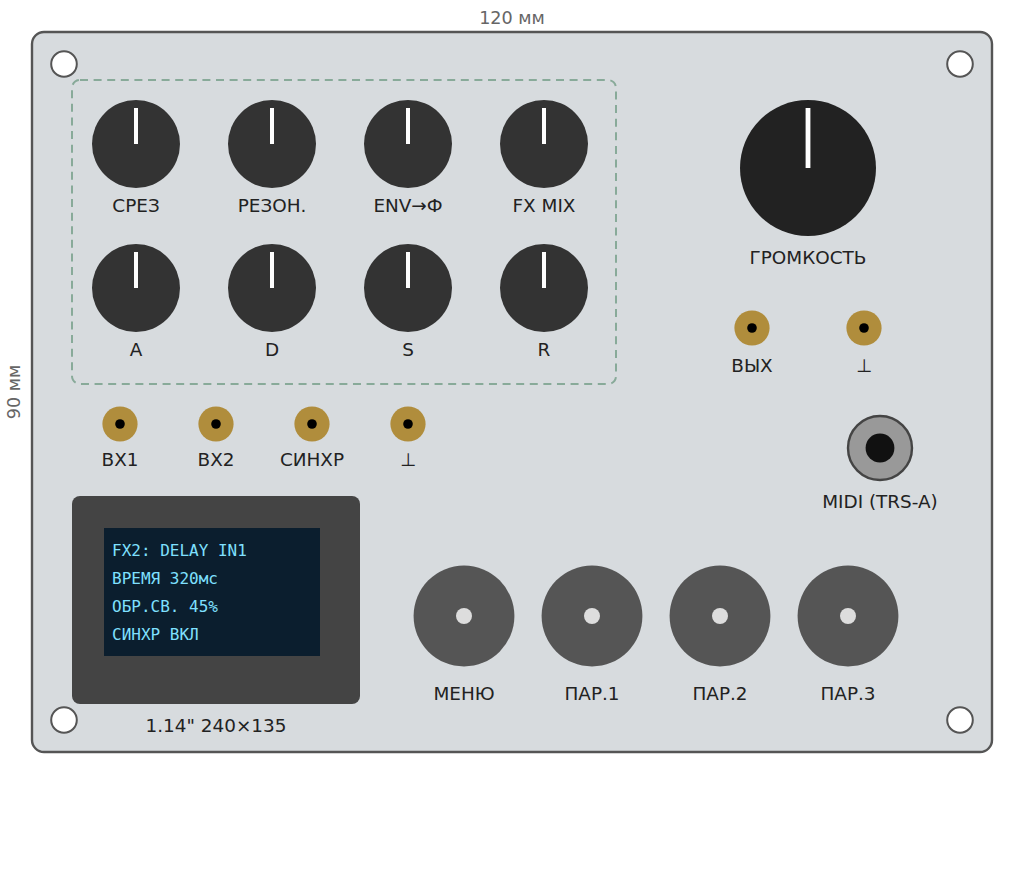
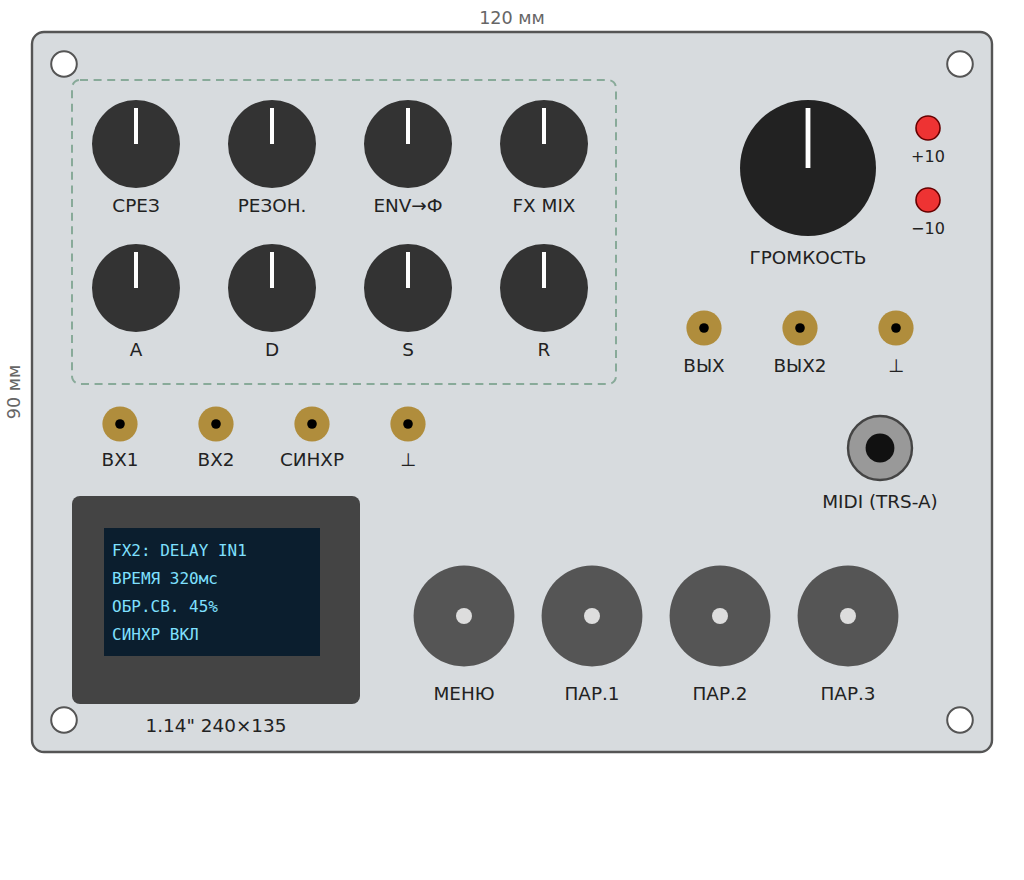
Add TRS draft and implementation plan for FPGA synth module
Panel sketch: add output clip LEDs and second (modulation) output.

Claude-Session: https://claude.ai/code/session_01JcNV2ZCXWxtNzRVWffkrjk

Changed region(s): [[0.6562, 0.3375, 0.9062, 0.4295], [0.875, 0.1227, 0.9375, 0.1841], [0.875, 0.2148, 0.9375, 0.2761]]

diff --git a/.plans/fpga-synth/trs.md b/.plans/fpga-synth/trs.md
@@ -1,0 +1,272 @@
+# ТЗ: FPGA-синтезатор / процессор эффектов — сменный модуль АВК-6
+
+Статус: **черновик v0.1**. Приоритеты: **P0** — обязательно в первой версии, **P1** — во второй, **P2** — потом.
+Открытые вопросы собраны в разделе 10 (`O-xx`).
+
+---
+
+## 1. Назначение
+
+Сменный модуль АВК-6, развитие проекта MIDI2AUX:
+
+1. **Полифонический виртуально-аналоговый синтезатор** с MIDI-входом, реакцией на силу нажатия и огибающими.
+2. **Процессор сигналов АВК**: два DC-входа, эффекты на кольцевом буфере (задержка, хорус, реверберация) и математические операции над сигналами.
+3. **Связь синтезатора с АВК в обе стороны**: сигналы АВК модулируют синтезатор, а модуляционные сигналы синтезатора выводятся в АВК.
+
+## 2. Термины
+
+| Термин | Значение |
+|---|---|
+| Машинная единица (МЕ) | ±10 В на разъёмах АВК. В цифре соответствует ±1.0 |
+| Голос | Канал синтеза одной ноты: 2 генератора + шум → фильтр → усилитель с огибающей |
+| ADSR | Генератор огибающей: Attack (время нарастания), Decay (время спада), Sustain (уровень удержания), Release (время затухания после отпускания) |
+| LFO | Низкочастотный генератор модуляции, 0.01–50 Гц |
+| Velocity | Сила нажатия клавиши, 0–127, приходит в Note On |
+| Шина сигналов | Набор сигналов модуля (источники, выходы слотов), обновляется каждый отсчёт |
+| Слот | Аппаратный блок обработки (эффект / математика) со стандартным интерфейсом, подключённый к шине |
+
+## 3. Внешние интерфейсы
+
+### 3.1 Питание (от АВК)
+
+| Шина | Потребители | Примечание |
+|---|---|---|
+| +5 В | Tang Nano (вход 5 В через диод Шоттки — развязка с USB), MCP3208, логика | Ток ограничен, величина неизвестна (O-11); бюджет ≤ 400 мА |
+| +15 / −15 В | ОУ входных/выходных каскадов, компараторы светодиодов | |
+| 3.3 В | АЦП входов, ЦАП, дисплей | Отдельный LDO от +5 В (не от Tang Nano) |
+
+Земля АВК одна: одна земля на плате, развязка керамикой и электролитами у каждого узла, аналоговая часть топологически отделена от цифровой.
+
+### 3.2 Сигналы
+
+| Разъём (2РМТ, панель) | Направление | Диапазон | Связь | Pri |
+|---|---|---|---|---|
+| ВХ1, ВХ2 | вход | ±10 В (защита до ±15 В) | DC, Rвх ≥ 100 кОм | P0 |
+| СИНХР | вход, цифровой | ТТЛ? (O-01); вход терпит ±15 В, порог ~+1.5 В, триггер Шмитта | DC | P0 |
+| ВЫХ | выход | ±10 В при Volume = max | DC, после аналогового Volume | P0 |
+| ВЫХ2 | выход модуляции в АВК | ±10 В, без регулятора громкости | DC | P1 (O-03) |
+| ⊥ ×2 | земля | | | P0 |
+| MIDI | вход, TRS 3.5 мм Type A | токовая петля, оптрон 6N137 / H11L1 | | P0 |
+
+### 3.3 Органы управления и индикация (панель 120×90 мм, см. `panel-sketch.svg`)
+
+| Элемент | Кол-во | Подключение | Функция |
+|---|---|---|---|
+| Потенциометры 9 мм | 8 | MCP3208 (SPI) | Фиксированные: СРЕЗ, РЕЗОН., ENV→Ф, FX MIX, A, D, S, R (O-06) |
+| Потенциометр ГРОМКОСТЬ | 1 | аналогово, в цепи выходного ОУ | Крайнее положение = ×1 (калибровано к МЕ) |
+| Энкодеры EC11 с кнопкой | 4 | GPIO ПЛИС | МЕНЮ, ПАР.1–3 (параметры, подписанные на экране) |
+| Дисплей 1.14" ST7789 240×135 | 1 | SPI ПЛИС | Меню, значения, индикация |
+| Светодиоды перегрузки ВЫХ | 2 | аналоговые компараторы на выходе, порог ≈ ±9.5 В | +10 / −10, как на модулях АВК |
+
+### 3.4 Конструктив
+
+- Алюминиевая панель 120×90 мм, плата под ней на стойках по углам, модуль вставляется в АВК сверху.
+- Tang Nano 20K устанавливается на несущую плату на штыревых разъёмах (можно снять).
+- Прошивка и отладка — через ремонтную проставку: модуль поднимается над корпусом, открывается доступ к USB-C Tang Nano.
+- SD-карта — в слоте Tang Nano (доступ при вынутом модуле).
+
+## 4. Функциональные требования — синтезатор
+
+### 4.1 MIDI
+
+| Требование | Pri |
+|---|---|
+| Приём 31250 бод 8N1, running status, игнорирование System Realtime внутри сообщений | P0 |
+| Note On / Note Off (Note On с vel=0 = Note Off), velocity | P0 |
+| Omni: реакция на все каналы (выбор канала не нужен) | P0 |
+| Pitch Bend (диапазон ±2 полутона, настраивается) | P0 |
+| Mod Wheel (CC1) → глубина вибрато LFO1 | P0 |
+| All Notes Off (CC123), 0xFC Stop → гашение всех голосов | P0 |
+| Sustain (CC64) | P1 |
+| Channel Aftertouch → источник модуляции | P2 |
+
+### 4.2 Голоса
+
+| Требование | Pri |
+|---|---|
+| Число голосов — параметр `NUM_VOICES` при синтезе; цель — 32 на 20K, 16+ на 9K | P0 |
+| Распределение: свободный голос; если нет — кража (сначала голос в Release с наименьшей амплитудой, затем самый старый) | P0 |
+| Повторное нажатие той же ноты перезапускает тот же голос | P0 |
+| 2 генератора на голос: пила, меандр/PWM, треугольник, синус; расстройка ГЕН2 (±1 октава, ±100 центов), смесь ГЕН1/ГЕН2/шум | P0 |
+| Подавление алиасинга (PolyBLEP) | P1 |
+| Жёсткая синхронизация генераторов от входа СИНХР («рычащий тембр») | P1 |
+| Резонансный фильтр SVF: ФНЧ/ПФ/ФВЧ, частота среза 20 Гц–16 кГц, резонанс до самовозбуждения | P0 |
+| ADSR1 → усилитель, ADSR2 → частота среза (глубина ENV→Ф, может быть отрицательной) | P0 |
+| Экспоненциальные участки огибающих; времена A/D/R 1 мс–10 с | P0 |
+| Velocity → громкость и частота среза (глубины в меню) | P0 |
+| 2 глобальных LFO: синус, треугольник, пила, меандр, случайный; частота или такт от СИНХР | P0 |
+| Портаменто, унисон | P2 |
+
+### 4.3 Модуляция (связь с АВК) — ключевая функция
+
+**Матрица модуляции**: 8 маршрутов «источник → приёмник × глубина (±)», глобальные (действуют на все голоса).
+
+| Источники | Приёмники |
+|---|---|
+| ВХ1, ВХ2 (DC, с частотой отсчётов — годится и для FM/AM звуковой частоты) | Высота тона всех голосов (FM / экспоненциально по октавам) |
+| LFO1, LFO2 | Частота среза, резонанс |
+| Mod Wheel, Pitch Bend | Громкость (AM / кольцевая модуляция) |
+| Выходы слотов | Ширина импульса (PWM), смесь генераторов |
+| СИНХР (±1) | Частота LFO, параметры слотов (время задержки, обратная связь…) |
+
+Pri: ВХ1/ВХ2 → высота, срез, громкость — **P0**; остальное — P1.
+
+**Модуляция АВК от синтезатора** — на ВЫХ2 (или на ВЫХ, если ВЫХ2 не будет, O-03) выводится любой сигнал шины:
+
+| Сигнал | Описание | Pri |
+|---|---|---|
+| LFO1/LFO2 | ±10 В | P0 |
+| Огибающая последнего нажатого голоса | 0…+10 В | P0 |
+| Gate | 0 / +10 В, пока нажата хотя бы одна клавиша | P0 |
+| Pitch CV последней ноты | 1 В/окт или в МЕ (настраивается) | P1 |
+| Velocity последней ноты | 0…+10 В | P1 |
+| Огибающая сигнала (envelope follower) синта или ВХ | 0…+10 В | P1 |
+
+### 4.4 Вход СИНХР
+
+| Режим | Pri |
+|---|---|
+| Такт для эффектов и LFO: время задержки / частота LFO = период СИНХР × множитель (4, 2, 1, 1/2, 1/4, 1/3…) | P0 |
+| Триггер нот: фронт запускает огибающие (выбранная нота или последняя нажатая); длительность gate — параметр | P0 |
+| Измерение периода (служебно: показать частоту на экране; основа для тактовых режимов) | P0 |
+| Жёсткая синхронизация генераторов | P1 |
+| Слежение частоты (голос звучит на частоте генератора АВК × интервал) | P2 |
+| Выборка-хранение по СИНХР | не нужно (сигналы АВК синхронны с СИНХР) |
+
+## 5. Функциональные требования — обработка сигналов
+
+### 5.1 Шина сигналов и слоты
+
+- Шина: `NUM_BUS` сигналов по 18 бит, обновляется каждый отсчёт.
+  Источники: S0 синт (сумма голосов), S1 ВХ1, S2 ВХ2, S3 LFO1, S4 LFO2, S5 СИНХР, S6 огибающая, S7 gate, S8… выходы слотов.
+- Каждый слот выбирает входы `SEL_A`, `SEL_B` из любых сигналов шины. Слоты вычисляются по порядку; чтение выхода более позднего слота даёт значение предыдущего отсчёта (z⁻¹) → допустимы обратные связи.
+- Выходной микшер: `ВЫХ = softclip(Σ gain_i · S_i)`, `ВЫХ2 = S[sel_out2] · gain`.
+- **Расширяемость**: новый эффект = RTL-модуль со стандартным интерфейсом слота + строка в списке слотов верхнего уровня + дескриптор в прошивке. Остальной код не меняется. CPU при старте перечисляет слоты по `TYPE_ID`, меню строится из дескрипторов.
+
+### 5.2 Набор слотов
+
+| Слот | Описание | Память | Pri |
+|---|---|---|---|
+| MATH | A·B (как у АВК: Y = A·B·0.1 в вольтах), A/B (с насыщением), \|A\|, A+B, A−B, min, max, A mod B, A·k+B | — | P0 |
+| DELAY | Задержка до нескольких секунд, обратная связь, dry/wet, время от энкодера или от СИНХР | SDRAM / PSRAM | P0 (на 20K) |
+| CHORUS / FLANGER | Короткая задержка, модулированная LFO | BSRAM | P1 |
+| REVERB | Freeverb или Dattorro (набор гребёнчатых и all-pass фильтров) | BSRAM / SDRAM | P1 |
+| «Замедление» входа | Вариант уточняется (O-02): магнитофон/лупер, pitch shift, прореженная запись | SDRAM | P2 |
+
+Конфигурация по умолчанию для первой версии: 2× MATH, 2× DELAY, 1× CHORUS, 1× REVERB (параметр).
+
+## 6. Нефункциональные требования
+
+| Параметр | Значение |
+|---|---|
+| Частота отсчётов | ≈ 48 кГц. Точное значение — из PLL от кварца 27 МГц, отклонение ≤ 3 % допустимо; таблица нот считается от фактической fs |
+| Разрядность внутреннего тракта | 18 бит (под умножители 18×18), параметр `DATA_W` |
+| Разрядность входных АЦП | 12 бит (параметр `ADC_W`) |
+| ЦАП | I2S, кадр 32 бита, данные 18 бит, младшие биты = 0 |
+| Задержка MIDI → звук | ≤ 3 мс (без учёта передачи MIDI-сообщения ~1 мс) |
+| Задержка ВХ → ВЫХ (без эффектов) | ≤ 1 мс |
+| Опрос потенциометров | ≥ 100 Гц на канал, сглаживание, гистерезис |
+| Сумматор голосов | запас разрядности на 32 голоса + мягкий лимитер, без цифрового переполнения |
+| Параметризация RTL | `NUM_VOICES`, `NUM_SLOTS`, состав слотов, `DATA_W`, `ADC_W`, целевая плата (9K/20K) |
+
+## 7. Аппаратная архитектура
+
+```
+ MIDI TRS ─ оптрон ──────────────────────────┐
+ СИНХР ─ делитель/защита ─ компаратор ───────┤
+ ВХ1 ─ ОУ ±10В→0..3.3В ─ АЦП SAR 12б (SPI) ──┤
+ ВХ2 ─ ОУ ±10В→0..3.3В ─ АЦП SAR 12б (SPI) ──┤      ┌──────────────┐
+ 8 потенциометров ─ MCP3208 (SPI) ───────────┼──────┤ Tang Nano 20K├── SD-карта (на плате)
+ 4 энкодера EC11 ────────────────────────────┤      │ (9K — макет) ├── SDRAM 64 Мбит (внутри)
+ Дисплей ST7789 (SPI) ───────────────────────┘      └──────┬───────┘
+                                                           │ I2S
+                                        PCM5102A (стерео) ─┤
+                    L: ─ Volume ─ ОУ ×3.4 ─ ВЫХ ─ компараторы ─ LED ±10
+                    R: ─ ОУ ×3.4 ─ ВЫХ2
+```
+
+| Узел | Компонент (предварительно) | Примечание |
+|---|---|---|
+| ЦАП | PCM5102A | Стерео: L → ВЫХ, R → ВЫХ2. Выход DC, ±3 В пик → ОУ до ±10 В. Проверить отсутствие ФВЧ в тракте (O-09) |
+| АЦП входов | 2× AD7476A / ADS7042 (12 бит, 1 MSPS, SPI) | Одновременный запуск; отсчёты 192 кГц → децимация до 48 кГц |
+| АЦП потенциометров | MCP3208 | 8 каналов, 12 бит |
+| ОУ | OPA2171 / TL072 / OPA2277 (±15 В) | Входной делитель + смещение; выходной буфер |
+| Компараторы LED | LM393 / LM339 от ±15 В | |
+| MIDI | 6N137 или H11L1, TRS Type A | |
+| Синхровход | компаратор с гистерезисом или транзисторный ключ, защита ±15 В | |
+
+Бюджет GPIO ПЛИС (оценка, O-05): I2S 3, SPI АЦП входов 4, SPI MCP3208 3 (+общий SCK), дисплей 5–6, MIDI 1, СИНХР 1, энкодеры 12 → ≈ 30.
+
+## 8. Архитектура FPGA
+
+```
+            27 МГц ─ PLL ─ sys_clk (~100 МГц), audio_tick (≈48 кГц)
+ ┌──────────────────────────────────────────────────────────────────────────┐
+ │  PicoRV32 (RV32IMC) ── шина (Wishbone/простая) ───────────────┐          │
+ │   BSRAM код/данные 32–48К, загрузчик в битстриме              │          │
+ │                                                               │          │
+ │  Периферия: UART-отладка (BL702), SPI ×3 (MCP3208, LCD, SD),  │          │
+ │  энкодеры (квадратурные декодеры), таймер, SPI-флеш           │          │
+ │                                                               │          │
+ │  MIDI: UART RX → парсер → FIFO событий ───────────────────────┤ (чтение) │
+ │                                                               │          │
+ │  Голосовой движок (мультиплекс по времени, NUM_VOICES):       │ регистры │
+ │   NCO×2 → смесь → SVF → × ADSR1 → Σ голосов → S0              │ голосов  │
+ │   ADSR2 → срез; матрица модуляции (глобальная)                │          │
+ │                                                               │          │
+ │  АЦП входов → децимация → S1, S2      СИНХР → период/фронт → S5 │         │
+ │  Шина сигналов S[0..NUM_BUS-1]                                │          │
+ │  Слоты 0..NUM_SLOTS-1 (MATH, DELAY, …) ── арбитр SDRAM/PSRAM  │ окна     │
+ │  Выходной микшер → софт-лимитер → I2S TX                      │ слотов   │
+ └──────────────────────────────────────────────────────────────────────────┘
+```
+
+### 8.1 Разделение RTL / CPU
+
+| RTL | CPU (C) |
+|---|---|
+| Весь звуковой тракт, эффекты, АЦП/ЦАП | Распределение голосов, кража, sustain |
+| UART MIDI + парсер → FIFO событий | Нота → инкремент фазы, pitch bend, mod wheel |
+| Декодеры энкодеров, SPI-контроллеры | Меню, дисплей, пресеты (SD) |
+| Измерение периода СИНХР, триггер | Перевод значений ручек в параметры (кривые, сглаживание) |
+
+### 8.2 Карта памяти (предварительно)
+
+| Адрес | Назначение |
+|---|---|
+| `0x0000_0000` | BSRAM: код + данные |
+| `0x1000_0000` | Периферия: UART, FIFO MIDI, SPI, энкодеры, таймер, GPIO |
+| `0x2000_0000` | Голоса: голос k по `+k·0x40` (INC1, INC2, GATE, VEL, …) |
+| `0x2001_0000` | Глобальные параметры синта, LFO, матрица модуляции |
+| `0x3000_0000` | Шина сигналов (чтение текущих значений), выходной микшер |
+| `0x3001_0000` | Слоты: слот k по `+k·0x100`: `TYPE_ID`, `SEL_A`, `SEL_B`, `BYPASS`, `MEM_BASE`, `MEM_SIZE`, `PARAM[0..15]` |
+| `0x4000_0000` | Окно SDRAM/PSRAM (для CPU, отладка) |
+
+### 8.3 Хранение прошивки CPU
+
+- Загрузчик (1–2 КБ) — в BSRAM, инициализируется из битстрима.
+- Рабочая прошивка — в SPI-флеше Tang Nano по отдельному смещению; загрузчик копирует её в BSRAM.
+- Режим разработки: загрузка прошивки по UART (BL702) без пересборки битстрима.
+- SD-карта: пресеты; опционально — файл обновления прошивки.
+
+## 9. Разработка и верификация
+
+- Язык: SystemVerilog (синтезируемое подмножество) или Verilog-2005; toolchain — O-04.
+- Модели DSP-блоков на Python (numpy) → эталонные WAV; тесты RTL в Verilator/cocotb со сравнением с эталоном.
+- CI (GitHub Actions): линт RTL, симуляция, сборка прошивки CPU.
+
+## 10. Открытые вопросы
+
+| # | Вопрос | Предложение / статус |
+|---|---|---|
+| O-01 | Уровень сигнала СИНХР: ТТЛ +5 В? Приходит на штырь панели или на разъём модуля с тыла? | Вход терпит ±15 В, порог ~+1.5 В с гистерезисом — годится и для ТТЛ, и для ±10 В. Проверить осциллографом |
+| O-02 | Что значит «замедлить» вход: магнитофон/лупер, pitch shift или прореженная запись? | Отложено, P2 |
+| O-03 | Второй выход ВЫХ2 для модуляции АВК от синта | Второй канал PCM5102A свободен, стоит один ОУ. Предлагается добавить (есть на эскизе) |
+| O-04 | Toolchain: Gowin EDA или открытый (yosys + nextpnr-himbaechel / apicula) | Предложение: открытый в CI, Gowin EDA — запасной вариант для тайминга |
+| O-05 | Бюджет GPIO Tang Nano 20K и 9K | Сверить распиновку, составить таблицу пинов |
+| O-06 | Функции фиксированных потенциометров: A/D/S/R — только огибающая громкости? Что именно делает FX MIX? | Предложение: A/D/S/R → ADSR1, ADSR2 из меню; FX MIX — общий уровень выходов слотов в микшере ВЫХ |
+| O-07 | Светодиоды перегрузки для входов | Пока только на ВЫХ |
+| O-08 | Размеры и высота Tang Nano + несущая плата под панелью; место для проставки | Уточнить по реальному модулю |
+| O-09 | PCM5102A: нет ли ФВЧ / смещения в тракте, пропускает ли DC | Проверить на макете (этап 1) |
+| O-10 | Тип ОУ (шум, смещение нуля, дрейф) | Решить при схемотехнике |
+| O-11 | Допустимый ток по +5 В от АВК | Измерить потребление макета; при необходимости DC-DC от +15 В |

diff --git a/.plans/fpga-synth/plan.md b/.plans/fpga-synth/plan.md
@@ -1,0 +1,113 @@
+# План реализации: FPGA-синтезатор для АВК-6
+
+ТЗ: [`trs.md`](trs.md). Эскиз панели: [`panel-sketch.svg`](panel-sketch.svg).
+
+Принцип: каждый этап заканчивается работающим устройством, которое можно подключить к АВК и послушать.
+Этапы 1–6 — на Tang Nano 9K (макет на модулях), с 7-го — на 20K. Параллельно идёт трек «железа» (H1–H4).
+
+## Структура репозитория (предложение)
+
+```
+fpga/
+  rtl/        # SystemVerilog: audio/, voice/, midi/, bus/, slots/, periph/, cpu/
+  boards/     # top-level и .cst для tang_nano_9k, tang_nano_20k
+  sim/        # тесты cocotb/Verilator
+  model/      # Python-модели DSP-блоков, генерация эталонных WAV
+sw/           # прошивка RISC-V (C): загрузчик, драйверы, меню, распределитель голосов
+hw/           # схема и плата (KiCad), чертёж панели
+fw/           # существующая прошивка midi2aux (Arduino) — без изменений
+```
+
+## Этапы
+
+### Этап 0. Инфраструктура
+- Решить O-04 (toolchain), собрать «мигалку» на 9K двумя путями.
+- Каркас `fpga/`, `sw/`, скрипты сборки, CI: линт + симуляция + сборка C.
+- Python-модель: NCO, ADSR, SVF → WAV (эталоны для RTL).
+- **Готово, когда:** CI зелёный, светодиод на 9K мигает из собранного в CI битстрима.
+
+### Этап 1. Звук наружу (паритет с midi2aux)
+- PLL, `audio_tick` ≈ 48 кГц, I2S TX → модуль PCM5102A.
+- UART RX 31250 + парсер MIDI (running status) → FIFO событий.
+- Временно: один голос, меандр, реакция на последнюю ноту — прямо в RTL.
+- Выходной каскад на макетке: ОУ ±15 В → ±10 В. Проверить DC-тракт PCM5102A (O-09).
+- **Готово, когда:** клавиатура играет одноголосно через АВК, как старый midi2aux.
+
+### Этап 2. Процессор
+- PicoRV32 + BSRAM + шина + UART-отладка + таймер.
+- Загрузчик: прошивка по UART (BL702) и из SPI-флеша.
+- MIDI FIFO читается CPU; `printf` событий в UART.
+- **Готово, когда:** C-прошивка обновляется за секунды без пересборки битстрима и печатает ноты.
+
+### Этап 3. Полифония
+- Голосовой движок с мультиплексированием по времени, параметр `NUM_VOICES`.
+- 2 NCO на голос (пила, меандр/PWM, треугольник, синус), шум, смесь, расстройка.
+- ADSR1 → громкость; velocity → громкость.
+- Сумматор с запасом разрядности + софт-лимитер.
+- Распределитель голосов на C: свободный голос / кража; pitch bend, mod wheel.
+- Замер ресурсов 9K: сколько голосов влезает.
+- **Готово, когда:** аккорды и Rush E на 16+ голосах без щелчков и переполнений.
+
+### Этап 4. Тембр
+- SVF (ФНЧ/ПФ/ФВЧ, резонанс), ADSR2 → срез, velocity → срез.
+- 2 LFO, вибрато от mod wheel.
+- Сверка RTL с Python-моделью по WAV.
+- **Готово, когда:** звучат классические пэды, басы и «квакающий» фильтр.
+
+### Этап 5. Панель управления
+- SPI-контроллер + MCP3208: 8 потенциометров → параметры (сглаживание, гистерезис).
+- Декодеры энкодеров, драйвер ST7789, шрифт с кириллицей.
+- Каркас меню, построенный из дескрипторов параметров.
+- **Готово, когда:** звук настраивается без компьютера.
+
+### Этап 6. Связь с АВК (ключевой этап)
+- АЦП входов (2× SAR, 192 кГц → децимация 48 кГц), нормировка ±10 В ↔ ±1.0.
+- Вход СИНХР: измерение периода, фронт → триггер нот, такт для LFO.
+- Шина сигналов, выходной микшер, ВЫХ2 (второй канал ЦАП).
+- Матрица модуляции: ВХ1/ВХ2 → высота / срез / громкость.
+- Вывод LFO / огибающей / gate на ВЫХ2 — модуляция АВК от синта.
+- Интерфейс слота + слот MATH (A·B, A/B, |A|, …) — проверка архитектуры слотов.
+- **Готово, когда:** генератор АВК модулирует фильтр синта, огибающая синта управляет блоком АВК, слот MATH повторяет умножитель АВК.
+
+### Этап 7. Переход на Tang Nano 20K + память
+- Top-level и распиновка 20K; контроллер SDRAM + арбитр портов слотов.
+- (На 9K допустимо отладить то же на встроенной PSRAM — интерфейс памяти абстрактный.)
+- Слот DELAY: обратная связь, dry/wet, время от энкодера и от СИНХР.
+- Масштабирование до 32 голосов.
+- **Готово, когда:** 32 голоса + 2 задержки, раздельно на ВХ1 и ВХ2, смешиваются на выходе.
+
+### Этап 8. Эффекты P1
+- CHORUS/FLANGER, REVERB.
+- PolyBLEP, жёсткая синхронизация от СИНХР, sustain, остальная матрица модуляции, envelope follower, pitch CV на ВЫХ2.
+
+### Этап 9. Пресеты и сервис
+- FAT на SD: сохранение и загрузка пресетов (синт + маршрутизация + слоты).
+- Прошивка CPU во флеш из файла на SD.
+
+### Этап 10. Интеграция
+- Калибровка ВХ/ВЫХ (смещение, масштаб), проверка при Volume = max.
+- Демонстрационные схемы набора на АВК (для статьи).
+
+## Трек «железо»
+
+| # | Шаг | Когда |
+|---|---|---|
+| H1 | Макет на модулях: PCM5102A, MCP3208, 2 АЦП SAR, ОУ, оптрон, ST7789, энкодеры | к этапам 1–6 |
+| H2 | Схема несущей платы: питание, входы/выходы, MIDI, СИНХР, LED перегрузки, разъёмы Tang Nano | после этапа 6 (распиновка стабилизирована) |
+| H3 | Разводка платы под панель 120×90, крепление, проставка | после H2 |
+| H4 | Чертёж панели (фрезеровка/гравировка) из `panel-sketch.svg` | вместе с H3 |
+
+## Оценка ресурсов (грубо, уточнить синтезом)
+
+| Блок | LUT | Умножители 18×18 | BSRAM |
+|---|---|---|---|
+| PicoRV32 + периферия | ~2.5K | 0–4 | 2–3 блока + код |
+| Голосовой движок (32 голоса) | ~2–3K | 4–6 | 2–4 |
+| SVF, огибающие, LFO | внутри движка | | |
+| Слот MATH | ~0.5K | 1–2 | — |
+| Слот DELAY + контроллер SDRAM | ~1K | 1 | 1 |
+| REVERB | ~1K | 2 | 4–8 (или SDRAM) |
+| **Итого** | **~8K** | **~15** | **~20** |
+
+9K (8.6K LUT, 20 умножителей, 26 BSRAM): этапы 1–6 с запасом по голосам 16–32.
+20K (20.7K LUT, 48 умножителей, 46 BSRAM): полная конфигурация с запасом ~2×.
